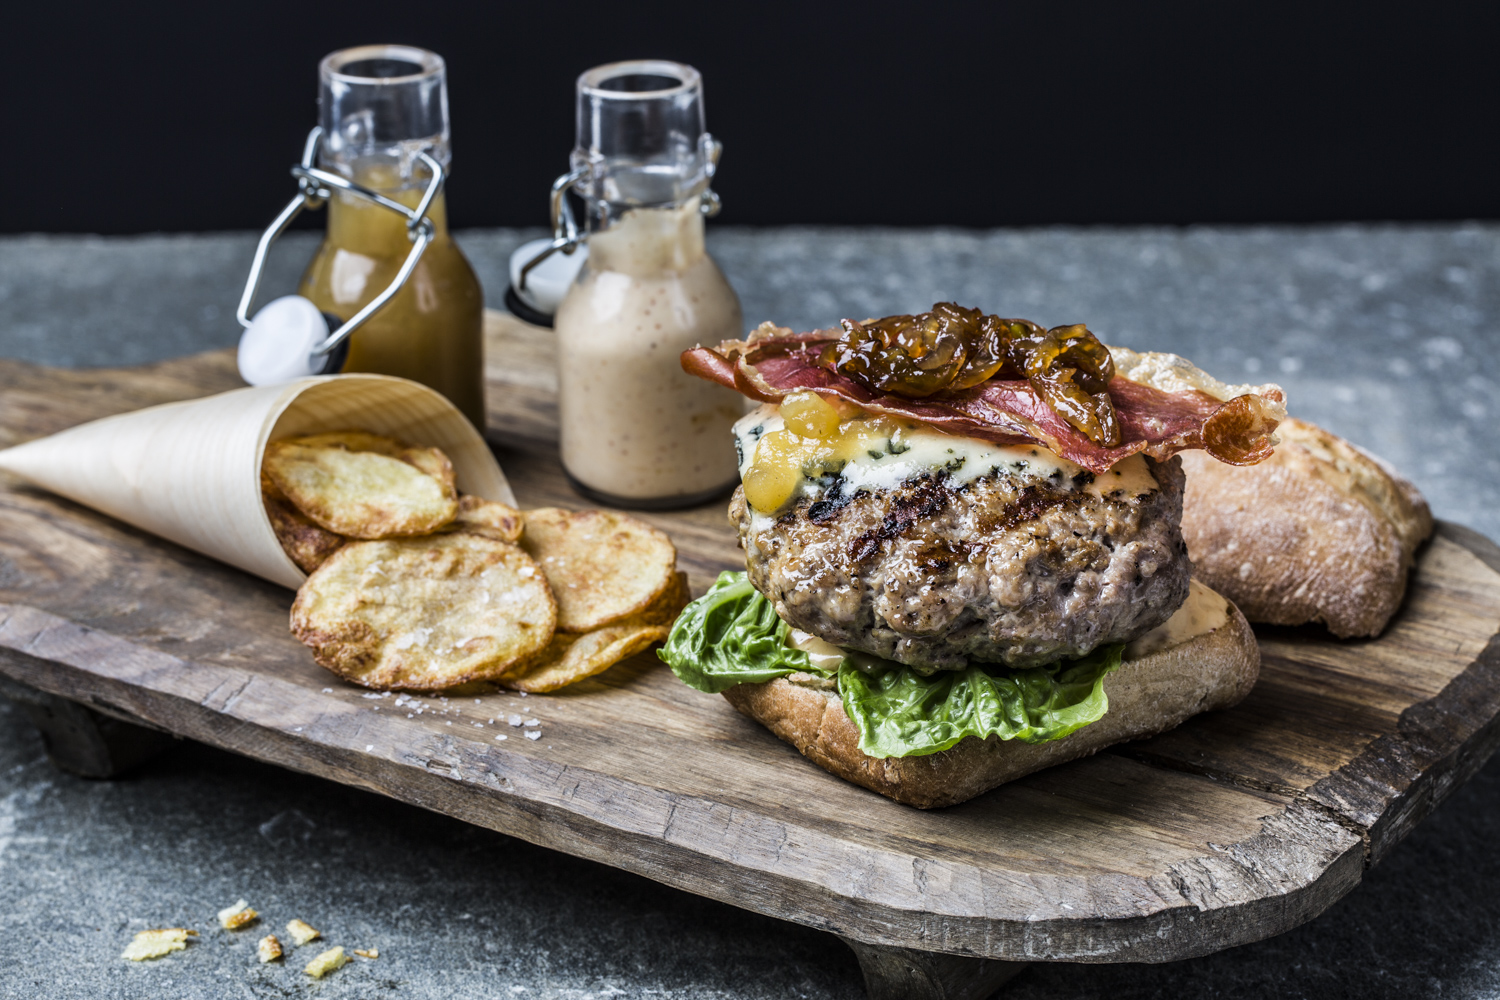
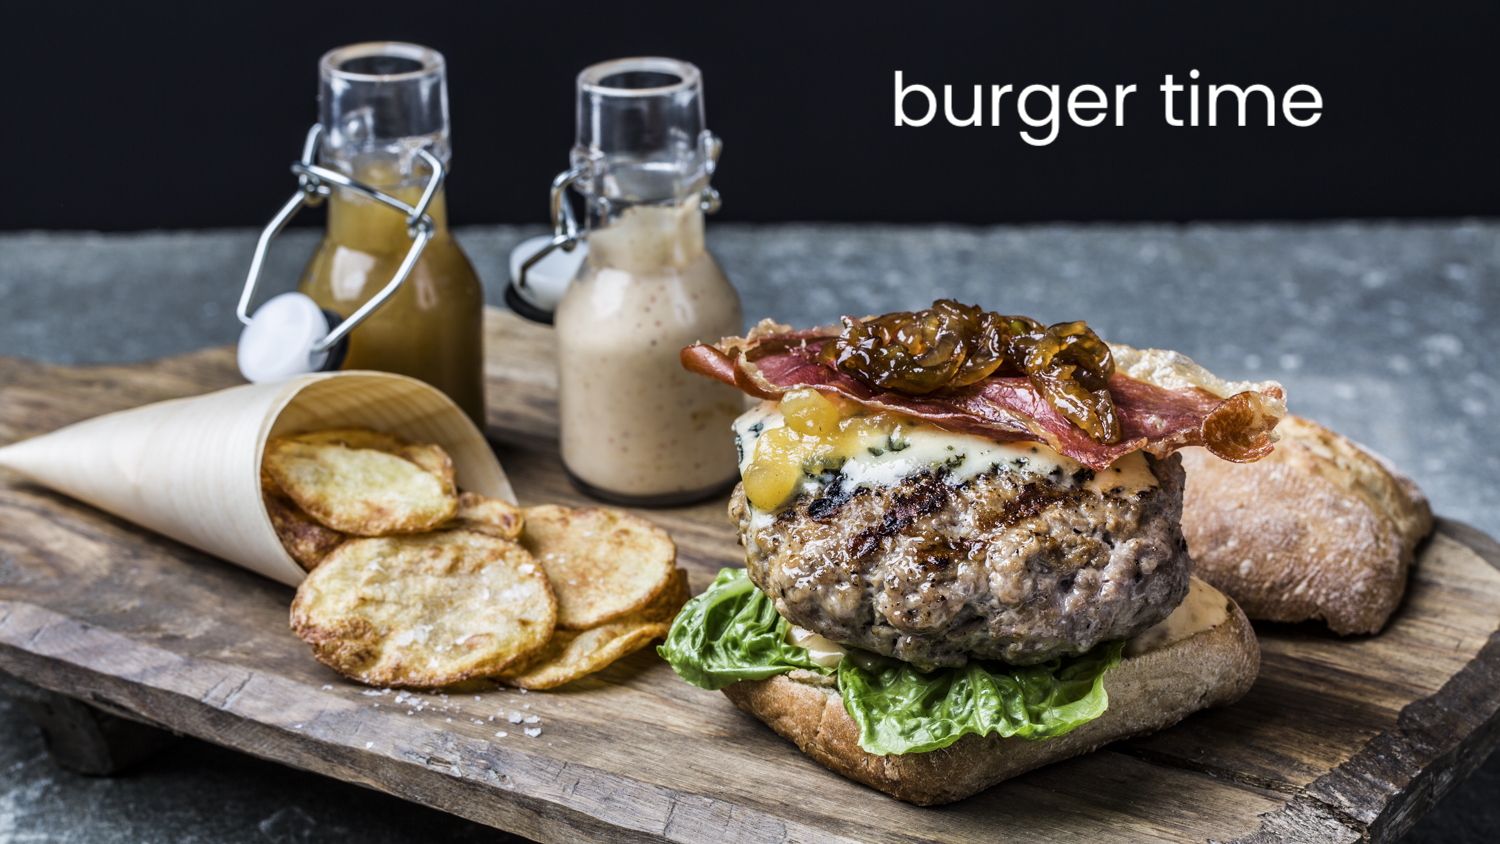
Added burger project.

diff --git a/src/data.js b/src/data.js
@@ -1,5 +1,6 @@
 import Submarine from "./images/submarine-800x450.png";
 import ShoppingApp from "./images/shopify-800x450.png";
+import BurgerTime from "./images/burgertime.jpeg";
 
 const data = [
   {
@@ -16,48 +17,48 @@ const data = [
     link: "https://rocky-mesa-95810.herokuapp.com/",
     width: "800",
     height: "450",
-    github: "https://github.com/caseydean8/shopity-app",
+    github: "https://shopity.herokuapp.com/",
   },
   {
-    id: "",
-    image: "",
-    link: "",
-    width: "",
-    height: "",
+    id: "burger-time",
+    image: BurgerTime,
+    link: "https://lit-meadow-90249.herokuapp.com/",
+    width: "800",
+    height: "450",
     github: "",
   },
-  {
-    id: "",
-    image: "",
-    link: "",
-    width: "",
-    height: "",
-    github: "",
-  },
-  {
-    id: "",
-    image: "",
-    link: "",
-    width: "",
-    height: "",
-    github: "",
-  },
-  {
-    id: "",
-    image: "",
-    link: "",
-    width: "",
-    height: "",
-    github: "",
-  },
-  {
-    id: "",
-    image: "",
-    link: "",
-    width: "",
-    height: "",
-    github: "",
-  },
+  // {
+  //   id: "",
+  //   image: "",
+  //   link: "",
+  //   width: "",
+  //   height: "",
+  //   github: "",
+  // },
+  // {
+  //   id: "",
+  //   image: "",
+  //   link: "",
+  //   width: "",
+  //   height: "",
+  //   github: "",
+  // },
+  // {
+  //   id: "",
+  //   image: "",
+  //   link: "",
+  //   width: "",
+  //   height: "",
+  //   github: "",
+  // },
+  // {
+  //   id: "",
+  //   image: "",
+  //   link: "",
+  //   width: "",
+  //   height: "",
+  //   github: "",
+  // },
 ];
 
 export default data;

diff --git a/src/components/SimpleMain.js b/src/components/SimpleMain.js
@@ -7,10 +7,10 @@ const SimpleMain = () => {
   return (
     <div className="simple-main-wrapper">
       <h1 className="heading">
-        Hello{" "}
+        lets go{" "}
         <Typed
           className="typed-text"
-          strings={["React.", "Node.", "Mongo.", "SQL.", "Express."]}
+          strings={["React", "Node", "Mongo", "SQL", "Express"]}
           // startDelay={3000}
           typeSpeed={100}
           backSpeed={60}

diff --git a/src/App.js b/src/App.js
@@ -1,8 +1,6 @@
 import "./components/font.css";
 import "./App.css";
 import "bootstrap/dist/css/bootstrap.min.css";
-// import Particles from "react-tsparticles";
-// import particlesOptions from "./particles.json";
 // import { Outlet } from "react-router-dom";
 // "Outlet" renders childs route element
 import Navbar from "./components/Navbar";
